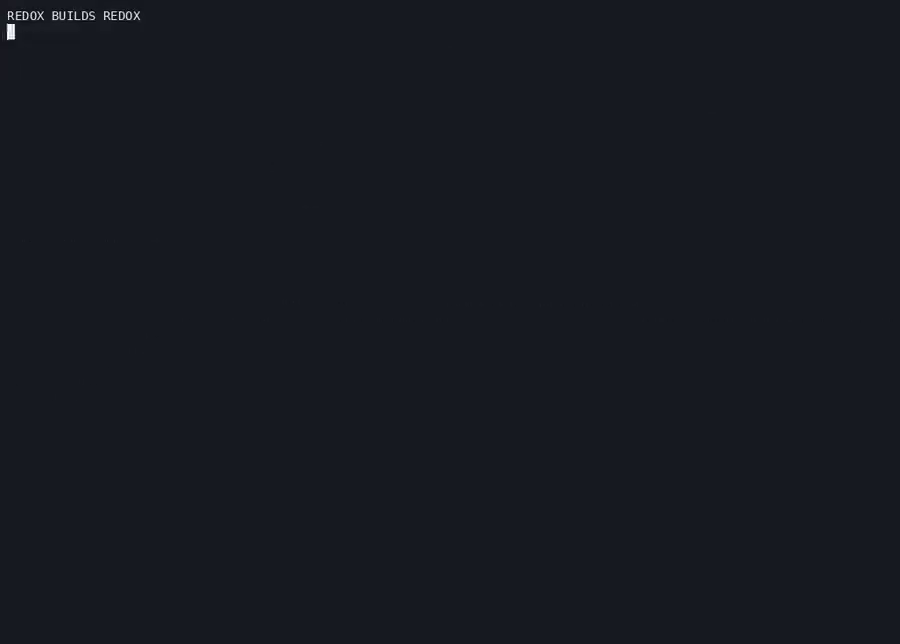
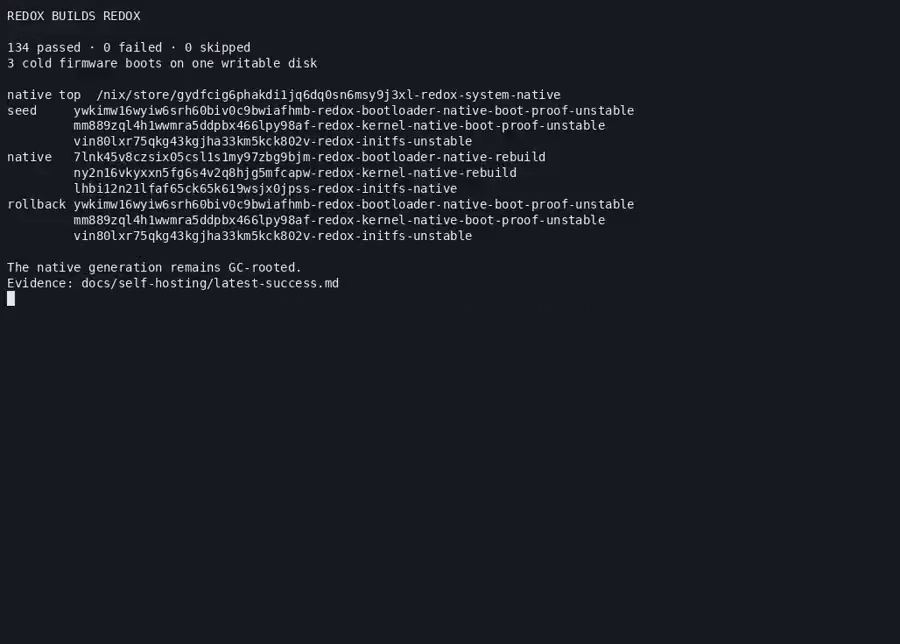
Use the summary screen as the self-build poster
The poster was the near-blank opening title card, and the site shows it
in place of the player when JavaScript is off. Take it one second before
the end of the MP4, where the summary screen is held, and regenerate it
from the committed video.

Changed region(s): [[0.0, 0.0311, 0.7156, 0.3727], [0.0, 0.4037, 0.3733, 0.4658], [0.0, 0.2174, 0.0622, 0.2484]]

diff --git a/demo/render-self-build.py b/demo/render-self-build.py
@@ -299,12 +299,14 @@ def render(args: argparse.Namespace) -> int:
             text=True,
         ).strip()
     )
+    # The finished summary screen is held through the cast's final pause and
+    # agg's --last-frame-duration, so one second before the end is always on it.
     subprocess.run(
         [
             "ffmpeg",
             "-y",
             "-loglevel", "error",
-            "-ss", f"{duration * 0.82:.2f}",
+            "-sseof", "-1",
             "-i", str(output),
             "-frames:v", "1",
             str(poster),

diff --git a/demo/README.md b/demo/README.md
@@ -64,6 +64,9 @@ nix shell nixpkgs#asciinema-agg -c \
 The video copies selected guest output; the timeline is compressed and the
 original run ID is displayed. It is an evidence replay, not a live run.
 
+The poster, `nix-redox-self-build-poster.png`, is the final summary frame. The
+site shows it in place of the player when JavaScript is off.
+
 ## What it shows
 
 1. UEFI boot and the Redox serial login.
